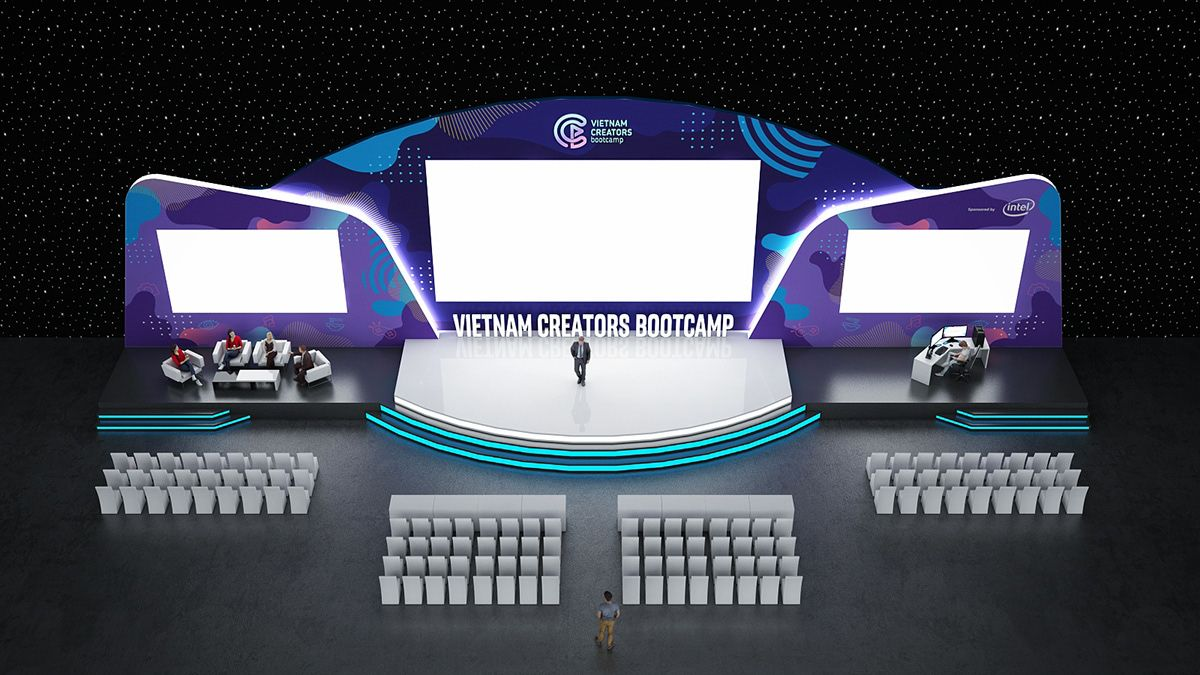
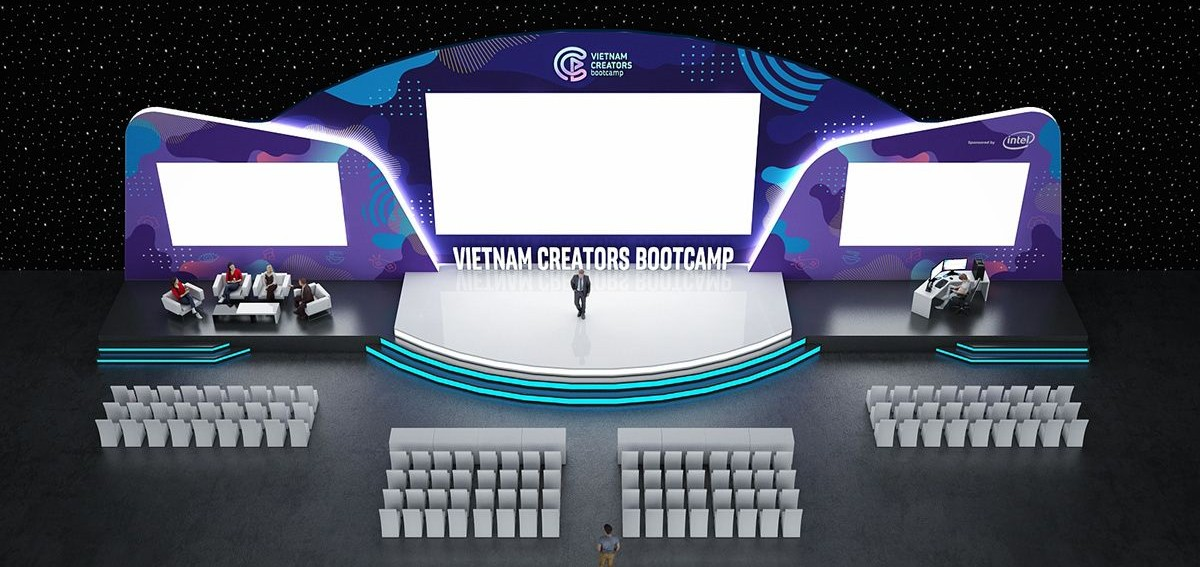
Update images and improve alt text in index.html
Replaced three image files and updated alt attributes in index.html for better accessibility and clarity. Also commented out duplicate stage images to avoid repetition.

diff --git a/index.html b/index.html
@@ -330,12 +330,12 @@
 		<h2 style="text-align: center;font-family: 'Special Elite'; ">WOOD STRUCTURE</h2>
 		<div class="row1">
 			<div class="column1">
-				<img src="images/main/1.jpg" style="width: 100%;" alt="Portfolio image">
-				<img src="images/main/122.jpg" style="width: 100%;" alt="Portfolio image">
-				<img src="images/main/22.jpg" style="width: 100%;" alt="Portfolio image">
-				<img src="images/main/img (2).jpg" style="width: 100%;" alt="Portfolio image">
-				<img src="images/main/img (7).jpg" style="width: 100%;" alt="Portfolio image">
-				<img src="images/main/img (14).jpg" style="width: 100%;" alt="Portfolio image">
+				<img src="images/main/1.jpg" style="width: 100%;" alt="wodden">
+				<img src="images/main/122.jpg" style="width: 100%;" alt="wodden">
+				<img src="images/main/22.jpg" style="width: 100%;" alt="wodden">
+				<img src="images/main/img (2).jpg" style="width: 100%;" alt="wodden">
+				<img src="images/main/img (7).jpg" style="width: 100%;" alt="wodden">
+				<img src="images/main/img (14).jpg" style="width: 100%;" alt="wodden">
 			</div>
 			<div class="column1">
 				<img src="images/main/2J.jpg" style="width: 100%;" alt="Portfolio image">
@@ -349,24 +349,24 @@
 		<h2 style="text-align: center; font-family: 'Special Elite';">SHELL SCHEME</h2>
 		<div class="row1">
 			<div class="column1">
-				<img src="images/main/img (3).jpg" style="width: 100%;" alt="Portfolio image">
-				<img src="images/main/img (5).jpg" style="width: 100%;" alt="Portfolio image">	
+				<img src="images/main/img (3).jpg" style="width: 100%;" alt="SHELL">
+				<img src="images/main/img (5).jpg" style="width: 100%;" alt="SHELL">	
 			</div>
 			<div class="column1">
-				<img src="images/main/img (9).jpg" style="width: 100%;" alt="Portfolio image">
-				<img src="images/main/img (13).jpg" style="width: 100%;" alt="Portfolio image">
+				<img src="images/main/img (9).jpg" style="width: 100%;" alt="SHELL">
+				<img src="images/main/img (13).jpg" style="width: 100%;" alt="SHELL">
 			</div>
 		</div>
 		<h2 style="text-align: center; font-family: 'Special Elite';">STAGES</h2>
 		<div class="row1">
 			<div class="column1">
 				<img src="images/main/img (4).jpg" style="width: 100%;" alt="stage">
-				<img src="images/main/img (16).jpg" style="width: 100%;" alt="stage">
+			<!-- 	<img src="images/main/img (16).jpg" style="width: 100%;" alt="stage"> -->
 				<img src="images/main/img (1).jpg" style="width: 100%;" alt="Stage">
 			</div>
 			<div class="column1">
 				<img src="images/main/img (16).jpg" style="width: 100%;" alt="stage">
-				<img src="images/main/img (4).jpg" style="width: 100%;" alt="stage">
+			<!-- 	<img src="images/main/img (4).jpg" style="width: 100%;" alt="stage"> -->
 				<img src="images/main/img (10).jpg" style="width: 100%;" alt="stage">
 			</div>
 		</div>
